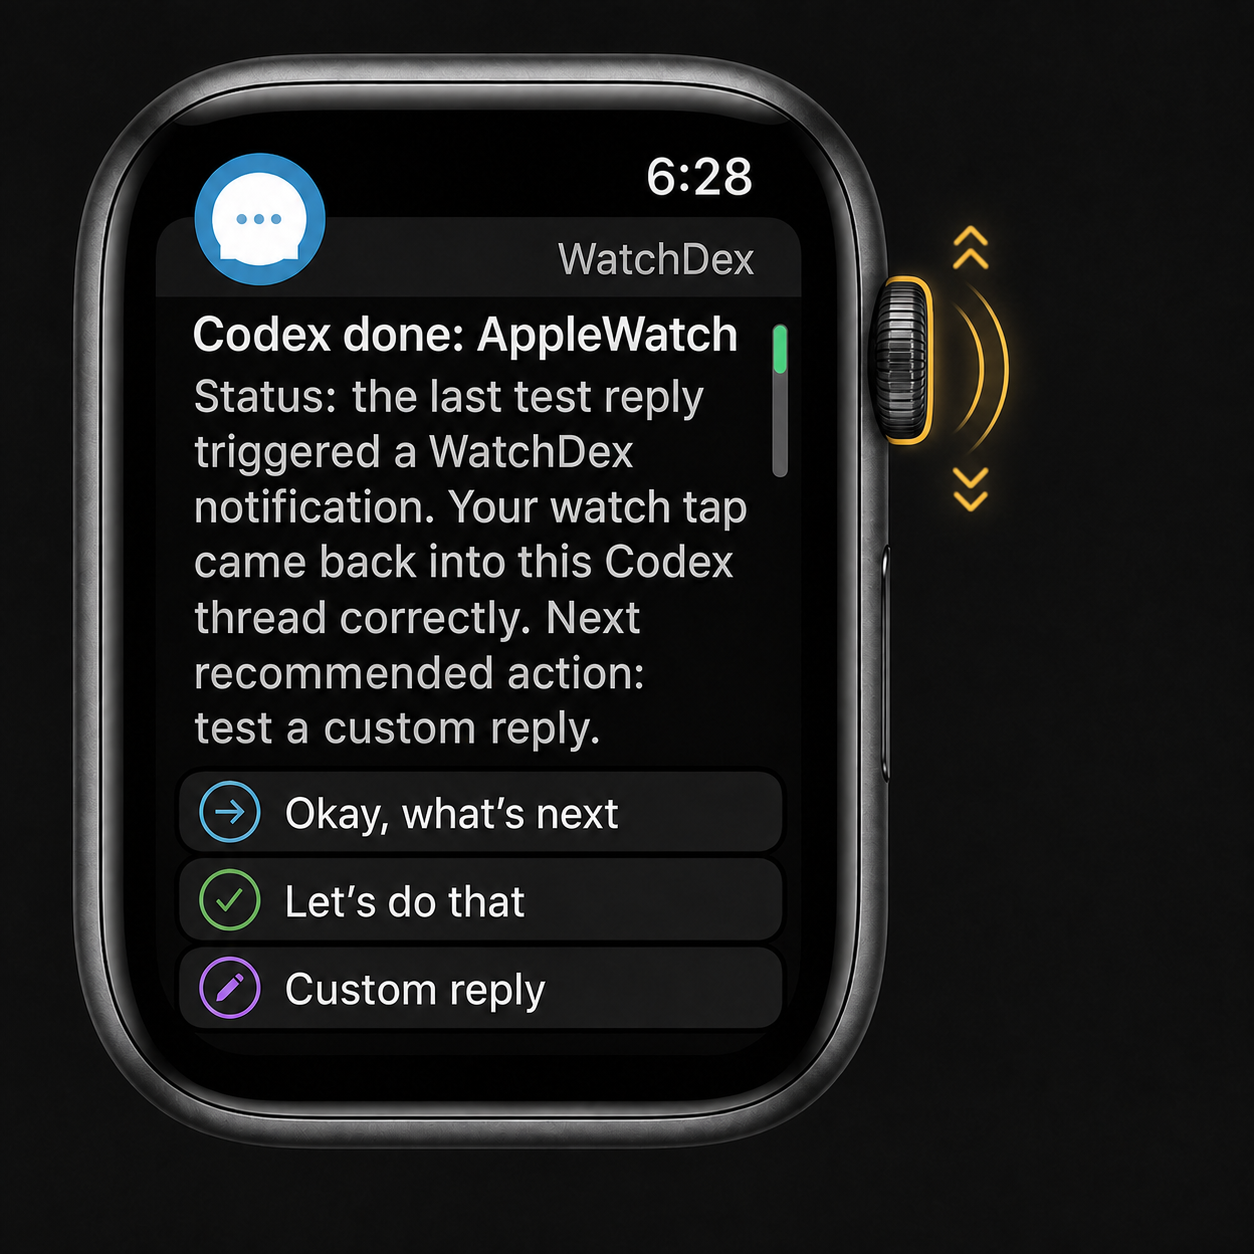
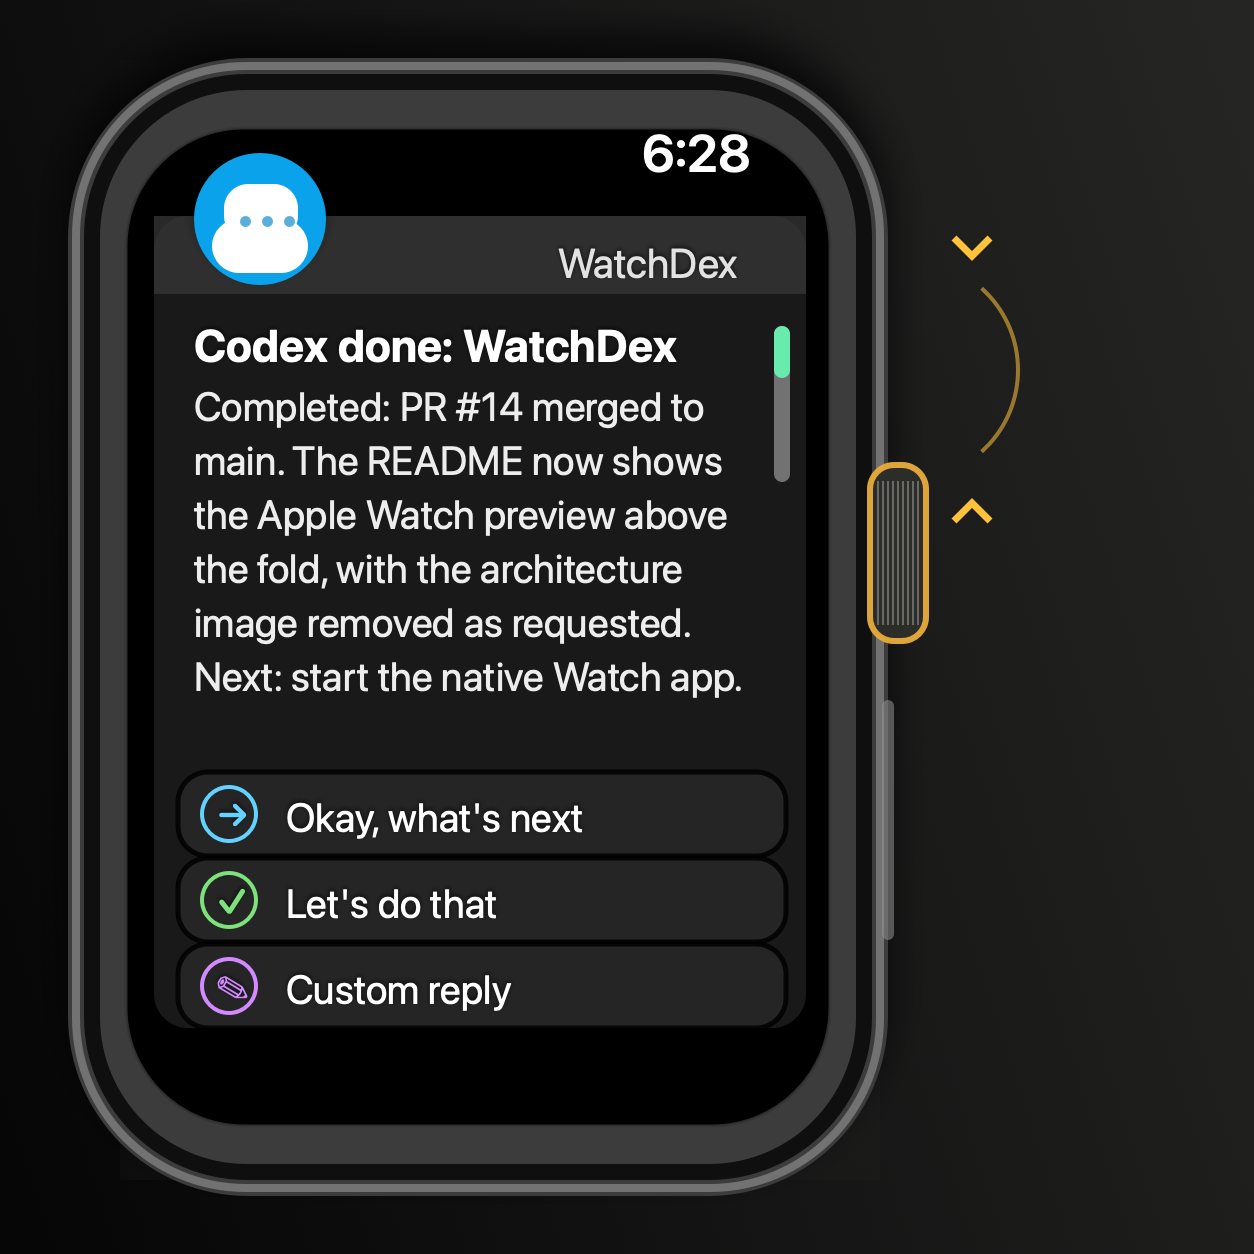
Make README watch preview more realistic

Changed region(s): [[0.0311, 0.0311, 0.8397, 0.9641], [0.9641, 0.0, 1.0, 0.0622]]

diff --git a/README.md b/README.md
@@ -6,11 +6,11 @@
 [![Pushcut](https://img.shields.io/badge/provider-pushcut-5A67D8)](#pushcut)
 
 <p align="center">
-  <img src="docs/assets/watchdex-scroll-preview.png" alt="WatchDex Apple Watch notification with a scrollable Codex response preview and quick reply actions" width="420">
+  <img src="docs/assets/watchdex-scroll-preview.png" alt="WatchDex Apple Watch notification showing a completed PR update and quick reply actions" width="420">
 </p>
 
 <p align="center">
-  <em>Review the Codex result from your wrist, then route replies back to the right machine.</em>
+  <em>Review a completed Codex task from your wrist, then send the next reply.</em>
 </p>
 
 WatchDex sends completed Codex task alerts to your Apple Watch and records